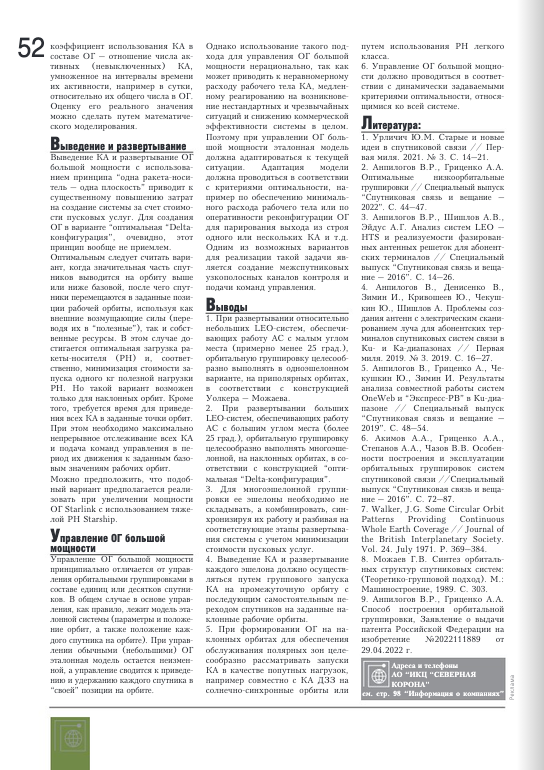
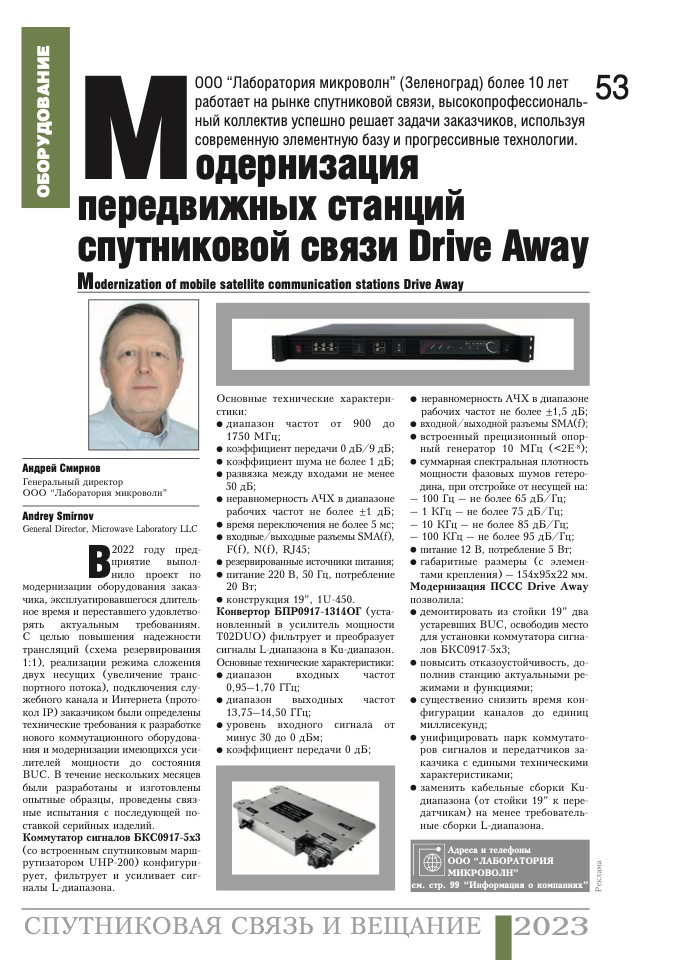
fixed all images

diff --git a/src/styles/global.css b/src/styles/global.css
@@ -726,9 +726,8 @@ textarea {
 .publication-media {
   display: grid;
   place-items: center;
-  aspect-ratio: 3 / 4;
+  aspect-ratio: 5 / 7;
   padding: 14px;
-  overflow: hidden;
   background: var(--tray);
 }
 
@@ -958,6 +957,7 @@ textarea {
 
 .footer-brand img {
   width: 250px;
+  height: auto;
   opacity: 0.95;
 }
 
